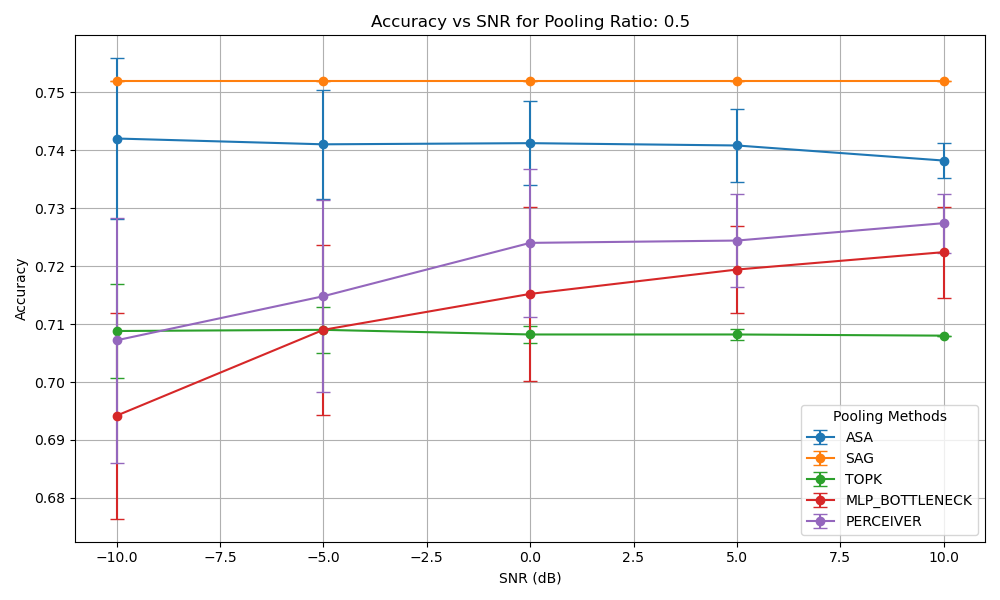
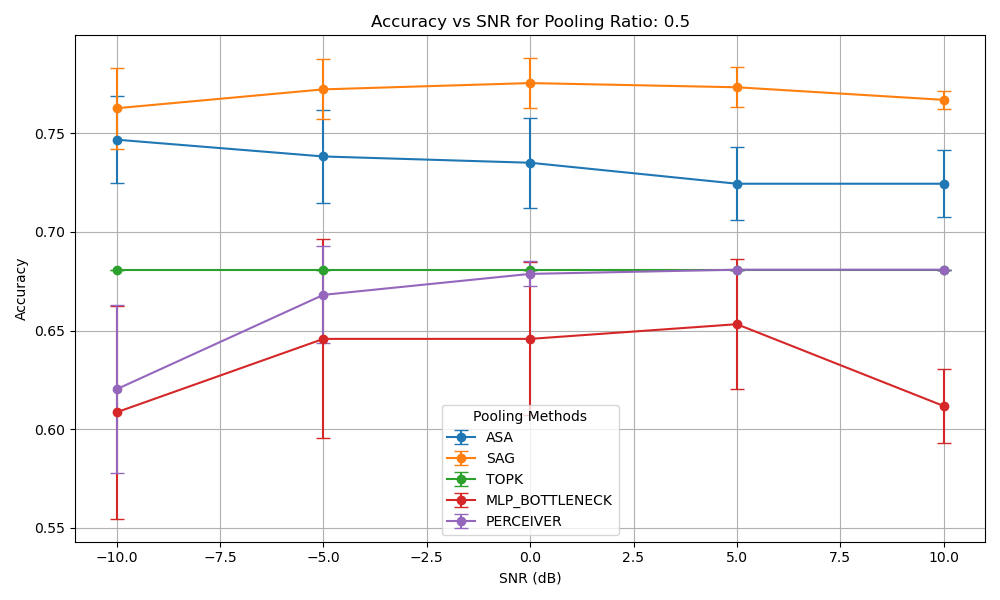
changes style of the plots

diff --git a/main.py b/main.py
@@ -16,7 +16,7 @@ from pytorch_lightning.callbacks import ModelCheckpoint
 from baseline_models import MLP_KMeans, MLP_PCA, Perceiver_channel, MLP_Bottleneck, Knn_channel
 import pickle
 
-@hydra.main(version_base=None, config_path="conf", config_name="baseline_config")
+@hydra.main(version_base=None, config_path="conf", config_name="config")
 
 # we can do a "test" with IMDB-BINARY where the avg number of nodes per graph is 19.8 --> if we compress 50%, latent dimension is 10.
 
@@ -436,7 +436,7 @@ def compare_poolings(config: DictConfig, trainer, snr, model, datamodule, pool_m
 
 @hydra.main(version_base=None, config_path="conf", config_name="config")
 def compare_poolings_fixed_snr(config: DictConfig):
-    save_dir = "results_poolings_snrs_with_noise/mutag"
+    save_dir = "results_poolings_snrs_without_noise/imdb"
     os.makedirs(save_dir, exist_ok=True)
     results_file = os.path.join(save_dir, "results.pkl")
 
@@ -477,46 +477,90 @@ def compare_poolings_fixed_snr(config: DictConfig):
     print(f"Results saved to {save_dir}")
 
 
-def plot_results_pool_per_ratio(results, snr_values, config):
-    # Iterate over each pooling ratio
-    for pool_ratio in config.exp.pooling_ratios:
-        plt.figure(figsize=(10, 6))
+# def plot_results_pool_per_ratio(results, snr_values, config):
+#     # Iterate over each pooling ratio
+#     for pool_ratio in config.exp.pooling_ratios:
+#         plt.figure(figsize=(10, 6))
         
-        # Iterate over each pooling method
-        for pool_method in config.exp.pool_methods:
-            accuracies = []
-            std_devs = []
+#         # Iterate over each pooling method
+#         for pool_method in config.exp.pool_methods:
+#             accuracies = []
+#             std_devs = []
 
-            # Collect accuracy and std dev for each SNR value for this pooling ratio
-            for snr_value in snr_values:
-                if pool_method in results[snr_value] and pool_ratio in results[snr_value][pool_method]:
-                    accuracies.append(results[snr_value][pool_method][pool_ratio]["accuracies"])
-                    std_devs.append(results[snr_value][pool_method][pool_ratio]["std"])
-                else:
-                    print(f"No data found for SNR: {snr_value}, Method: {pool_method}, Ratio: {pool_ratio}")
-                    accuracies.append(None)
-                    std_devs.append(0)
+#             # Collect accuracy and std dev for each SNR value for this pooling ratio
+#             for snr_value in snr_values:
+#                 if pool_method in results[snr_value] and pool_ratio in results[snr_value][pool_method]:
+#                     accuracies.append(results[snr_value][pool_method][pool_ratio]["accuracies"])
+#                     std_devs.append(results[snr_value][pool_method][pool_ratio]["std"])
+#                 else:
+#                     print(f"No data found for SNR: {snr_value}, Method: {pool_method}, Ratio: {pool_ratio}")
+#                     accuracies.append(None)
+#                     std_devs.append(0)
 
-            # Plot the accuracies with error bars for the current method
-            plt.errorbar(snr_values, accuracies, yerr=std_devs, label=f"{pool_method.upper()}", capsize=5, marker='o')
+#             # Plot the accuracies with error bars for the current method
+#             plt.errorbar(snr_values, accuracies, yerr=std_devs, label=f"{pool_method.upper()}", capsize=5, marker='o')
 
-        # Customize each plot for the current pooling ratio
-        plt.title(f"Accuracy vs SNR for Pooling Ratio: {pool_ratio}")
-        plt.xlabel("SNR (dB)")
-        plt.ylabel("Accuracy")
-        plt.legend(title="Pooling Methods")
-        plt.grid(True)
-        plt.tight_layout()
+#         # Customize each plot for the current pooling ratio
+#         plt.title(f"Accuracy vs SNR for Pooling Ratio: {pool_ratio}")
+#         plt.xlabel("SNR (dB)")
+#         plt.ylabel("Accuracy")
+#         plt.legend(title="Pooling Methods")
+#         plt.grid(True)
+#         plt.tight_layout()
 
-        # Save the plot as a PNG file
-        save_dir = "comparison_plots/mutag/with_noise/compare_poolings_ratio_plots"
-        os.makedirs(save_dir, exist_ok=True)
-        filename = os.path.join(save_dir, f"accuracy_vs_snr_ratio_{pool_ratio}.png")
-        plt.savefig(filename)
-        plt.close()  # Close the plot to avoid overlap
+#         # Save the plot as a PNG file
+#         save_dir = "comparison_plots/imdb/with_noise/compare_poolings_ratio_plots"
+#         os.makedirs(save_dir, exist_ok=True)
+#         filename = os.path.join(save_dir, f"accuracy_vs_snr_ratio_{pool_ratio}.png")
+#         plt.savefig(filename)
+#         plt.close()  # Close the plot to avoid overlap
 
-        print(f"Plot saved to {filename}")
+#         print(f"Plot saved to {filename}")
 
+
+
+# def plot_results_pool_per_snr(results, pooling_ratios, config):
+#     # Iterate over each SNR value in the results dictionary
+#     for snr_value in results:
+#         plt.figure(figsize=(10, 6))
+        
+#         # Iterate over each pooling method for the given SNR value
+#         for pool_method, pool_data in results[snr_value].items():
+#             accuracies = []
+#             std_devs = []
+
+#             # Extract accuracies and std deviations for each pooling ratio in the current method
+#             for pool_ratio in pooling_ratios:
+#                 if pool_ratio in pool_data:
+#                     accuracies.append(pool_data[pool_ratio]["accuracies"])
+#                     std_devs.append(pool_data[pool_ratio]["std"])
+#                 else:
+#                     print(f"No data found for pooling ratio: {pool_ratio} under method: {pool_method}")
+#                     accuracies.append(None)
+#                     std_devs.append(0)
+
+#             # Plot the accuracies with error bars for the current method
+#             plt.errorbar(pooling_ratios, accuracies, yerr=std_devs, label=f"{pool_method.upper()}", capsize=5, marker='o')
+
+#         # Customize each plot for the current SNR value
+#         plt.title(f"Accuracy vs Pooling Ratio for SNR: {snr_value} dB")
+#         plt.xlabel("Pooling Ratio")
+#         plt.ylabel("Accuracy")
+#         plt.legend(title="Pooling Methods")
+#         plt.grid(True)
+#         plt.tight_layout()
+
+#         # Save the plot as a PNG file
+#         save_dir = "comparison_plots/imdb/with_noise/compare_poolings_snr_plots"
+#         os.makedirs(save_dir, exist_ok=True)
+#         filename = os.path.join(save_dir, f"accuracy_vs_pooling_ratio_snr_{snr_value}.png")
+#         plt.savefig(filename)
+#         plt.close()  # Close the plot to avoid overlap
+
+#         print(f"Plot saved to {filename}")
+
+
+# # ----- new style
 
 
 def plot_results_pool_per_snr(results, pooling_ratios, config):
@@ -524,8 +568,15 @@ def plot_results_pool_per_snr(results, pooling_ratios, config):
     for snr_value in results:
         plt.figure(figsize=(10, 6))
         
+        # Get the list of pooling methods for easy access
+        pool_methods = list(results[snr_value].keys())
+        
+        # Store line styles and labels for the legend
+        legend_lines = []
+        legend_labels = []
+
         # Iterate over each pooling method for the given SNR value
-        for pool_method, pool_data in results[snr_value].items():
+        for idx, (pool_method, pool_data) in enumerate(results[snr_value].items()):
             accuracies = []
             std_devs = []
 
@@ -539,25 +590,110 @@ def plot_results_pool_per_snr(results, pooling_ratios, config):
                     accuracies.append(None)
                     std_devs.append(0)
 
-            # Plot the accuracies with error bars for the current method
-            plt.errorbar(pooling_ratios, accuracies, yerr=std_devs, label=f"{pool_method.upper()}", capsize=5, marker='o')
+            # Determine line style and properties
+            line_style = '--' if idx >= len(pool_methods) - 2 else '-'  # Dashed line for the last two methods
+            line, _, _ = plt.errorbar(
+                pooling_ratios, accuracies, yerr=std_devs, 
+                label=f"{pool_method.upper()}", capsize=5, marker='o', 
+                linestyle=line_style, linewidth=2.5, alpha=0.7  # Thicker lines and reduced opacity
+            )
+
+            # Append Line2D object and label for legend
+            legend_lines.append(Line2D([0], [0], color=line.get_color(), linestyle=line_style, linewidth=2.5))
+            legend_labels.append(pool_method.upper())
 
         # Customize each plot for the current SNR value
-        plt.title(f"Accuracy vs Pooling Ratio for SNR: {snr_value} dB")
-        plt.xlabel("Pooling Ratio")
-        plt.ylabel("Accuracy")
-        plt.legend(title="Pooling Methods")
+        plt.title(f"Accuracy vs Pooling Ratio for SNR: {snr_value} dB", fontsize=16)  # Increased font size
+        plt.xlabel("Pooling Ratio", fontsize=16)  # Increased font size
+        plt.ylabel("Accuracy", fontsize=16)  # Increased font size
+        plt.xticks(fontsize=14)  # Increased tick size
+        plt.yticks(fontsize=14)  # Increased tick size
+
+        # Use the legend_lines and legend_labels to create the legend
+        plt.legend(legend_lines, legend_labels, fontsize=12)
+        
         plt.grid(True)
         plt.tight_layout()
 
         # Save the plot as a PNG file
-        save_dir = "comparison_plots/mutag/with_noise/compare_poolings_snr_plots"
+        save_dir = "comparison_plots/imdb/without_noise/compare_poolings_snr_plots"
         os.makedirs(save_dir, exist_ok=True)
         filename = os.path.join(save_dir, f"accuracy_vs_pooling_ratio_snr_{snr_value}.png")
         plt.savefig(filename)
         plt.close()  # Close the plot to avoid overlap
 
         print(f"Plot saved to {filename}")
+
+def plot_results_pool_per_ratio(results, snr_values, config):
+    # Iterate over each pooling ratio
+    for pool_ratio in config.exp.pooling_ratios:
+        plt.figure(figsize=(10, 6))
+        
+        # Get the list of pooling methods for easy access
+        pool_methods = config.exp.pool_methods
+
+        # Store line styles and labels for the legend
+        legend_lines = []
+        legend_labels = []
+        
+        # Iterate over each pooling method
+        for idx, pool_method in enumerate(pool_methods):
+            accuracies = []
+            std_devs = []
+
+            # Collect accuracy and std dev for each SNR value for this pooling ratio
+            for snr_value in snr_values:
+                if pool_method in results[snr_value] and pool_ratio in results[snr_value][pool_method]:
+                    accuracies.append(results[snr_value][pool_method][pool_ratio]["accuracies"])
+                    std_devs.append(results[snr_value][pool_method][pool_ratio]["std"])
+                else:
+                    print(f"No data found for SNR: {snr_value}, Method: {pool_method}, Ratio: {pool_ratio}")
+                    accuracies.append(None)
+                    std_devs.append(0)
+
+            # Determine line style and properties
+            line_style = '--' if idx >= len(pool_methods) - 2 else '-'  # Dashed line for the last two methods
+            line, _, _ = plt.errorbar(
+                snr_values, accuracies, yerr=std_devs, label=f"{pool_method.upper()}", 
+                capsize=5, marker='o', linestyle=line_style, 
+                linewidth=2.5, alpha=0.7  # Thicker lines and reduced opacity
+            )
+
+            # Append Line2D object and label for legend
+            legend_lines.append(Line2D([0], [0], color=line.get_color(), linestyle=line_style, linewidth=2.5))
+            legend_labels.append(pool_method.upper())
+
+        # Customize each plot for the current pooling ratio
+        plt.title(f"Accuracy vs SNR for Pooling Ratio: {pool_ratio}", fontsize=16)  # Increased font size
+        plt.xlabel("SNR (dB)", fontsize=14)  # Increased font size
+        plt.ylabel("Accuracy", fontsize=14)  # Increased font size
+        plt.xticks(fontsize=12)  # Increased tick size
+        plt.yticks(fontsize=12)  # Increased tick size
+        
+        # Use the legend_lines and legend_labels to create the legend
+        plt.legend(legend_lines, legend_labels, title="Pooling Methods", fontsize=12)
+        
+        plt.grid(True)
+        plt.tight_layout()
+
+        # Save the plot as a PNG file
+        save_dir = "comparison_plots/imdb/without_noise/compare_poolings_ratio_plots"
+        os.makedirs(save_dir, exist_ok=True)
+        filename = os.path.join(save_dir, f"accuracy_vs_snr_ratio_{pool_ratio}.png")
+        plt.savefig(filename)
+        plt.close()  # Close the plot to avoid overlap
+
+        print(f"Plot saved to {filename}")
+
+
+
+
+@hydra.main(version_base=None, config_path="conf", config_name="config")
+def plot_existing_res(config: DictConfig):
+    filename = 'without_noise_results.pkl'
+    results = load_results(filename)
+    plot_results_pool_per_snr(results, config.exp.pooling_ratios, config)
+    plot_results_pool_per_ratio(results, config.exp.snr_values, config)
 
 
 if __name__ == "__main__":
@@ -566,4 +702,4 @@ if __name__ == "__main__":
     # setup_training()
     #train_and_plot_comparison()
     compare_poolings_fixed_snr()
-
+    # plot_existing_res()
